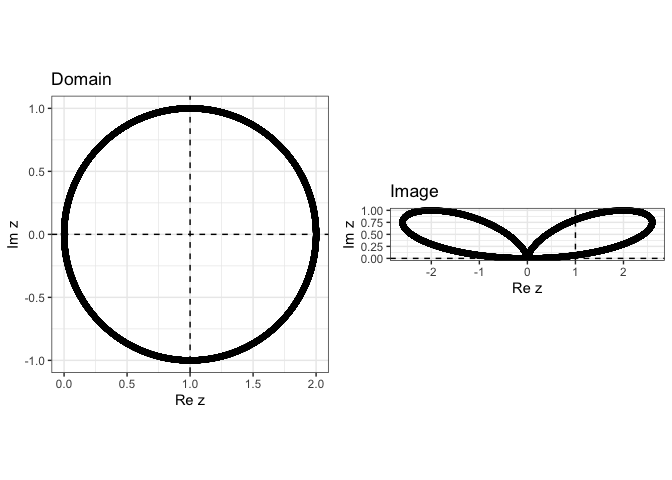
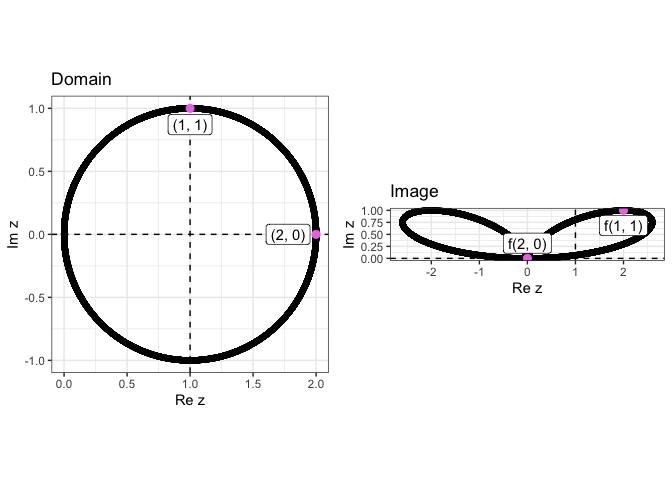
knit file with annotations

diff --git a/README.md b/README.md
@@ -34,8 +34,17 @@ devtools::install_github("Swaha294/complexR")
 
     ## Downloading GitHub repo Swaha294/complexR@HEAD
 
+    ## bit   (4.0.4 -> 4.0.5) [CRAN]
+    ## hms   (1.1.2 -> 1.1.3) [CRAN]
+    ## vroom (1.6.0 -> 1.6.1) [CRAN]
+    ## readr (2.1.3 -> 2.1.4) [CRAN]
+
+    ## Installing 4 packages: bit, hms, vroom, readr
+
     ## 
-    ##      checking for file ‘/private/var/folders/0p/hkwpsbqj047d4nq34kz3_wdr0000gn/T/RtmpmBukfh/remotes6abc42a5bc39/Swaha294-complexR-2971744/DESCRIPTION’ ...  ✔  checking for file ‘/private/var/folders/0p/hkwpsbqj047d4nq34kz3_wdr0000gn/T/RtmpmBukfh/remotes6abc42a5bc39/Swaha294-complexR-2971744/DESCRIPTION’
+    ## The downloaded binary packages are in
+    ##  /var/folders/0p/hkwpsbqj047d4nq34kz3_wdr0000gn/T//RtmpEmOQz8/downloaded_packages
+    ##      checking for file ‘/private/var/folders/0p/hkwpsbqj047d4nq34kz3_wdr0000gn/T/RtmpEmOQz8/remotesf71527b1ec40/Swaha294-complexR-33d53b5/DESCRIPTION’ ...  ✔  checking for file ‘/private/var/folders/0p/hkwpsbqj047d4nq34kz3_wdr0000gn/T/RtmpEmOQz8/remotesf71527b1ec40/Swaha294-complexR-33d53b5/DESCRIPTION’ (402ms)
     ##   ─  preparing ‘complexR’:
     ##      checking DESCRIPTION meta-information ...  ✔  checking DESCRIPTION meta-information
     ##   ─  checking for LF line-endings in source and make files and shell scripts
@@ -51,7 +60,12 @@ centered at (1, 0)
 
 ``` r
 library(complexR)
-circle_transform(x0 = 1, x_new = expression(2*x*y), y_new = expression(y^2))
+circle_transform(
+  x0 = 1, 
+  x_new = expression(2*x*y), 
+  y_new = expression(y^2),
+  annotations = c(complex(real = 2, imaginary = 0), complex(real = 1, imaginary = 1))
+  )
 ```
 
 ![](README_files/figure-gfm/unnamed-chunk-2-1.png)<!-- -->
